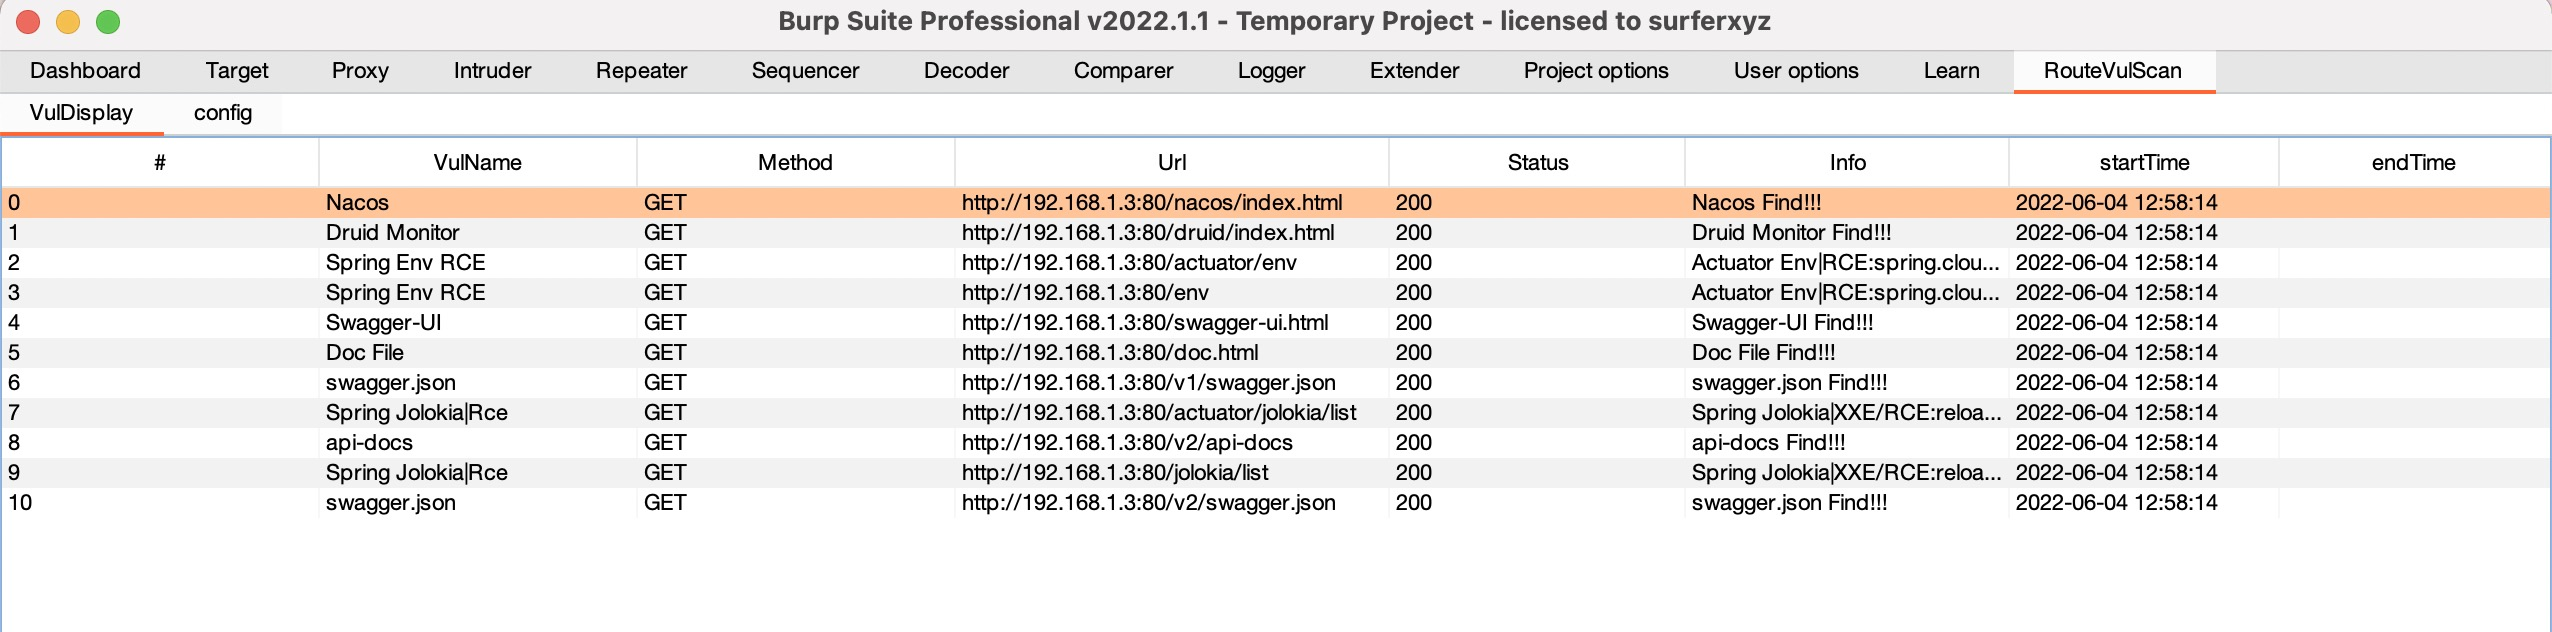
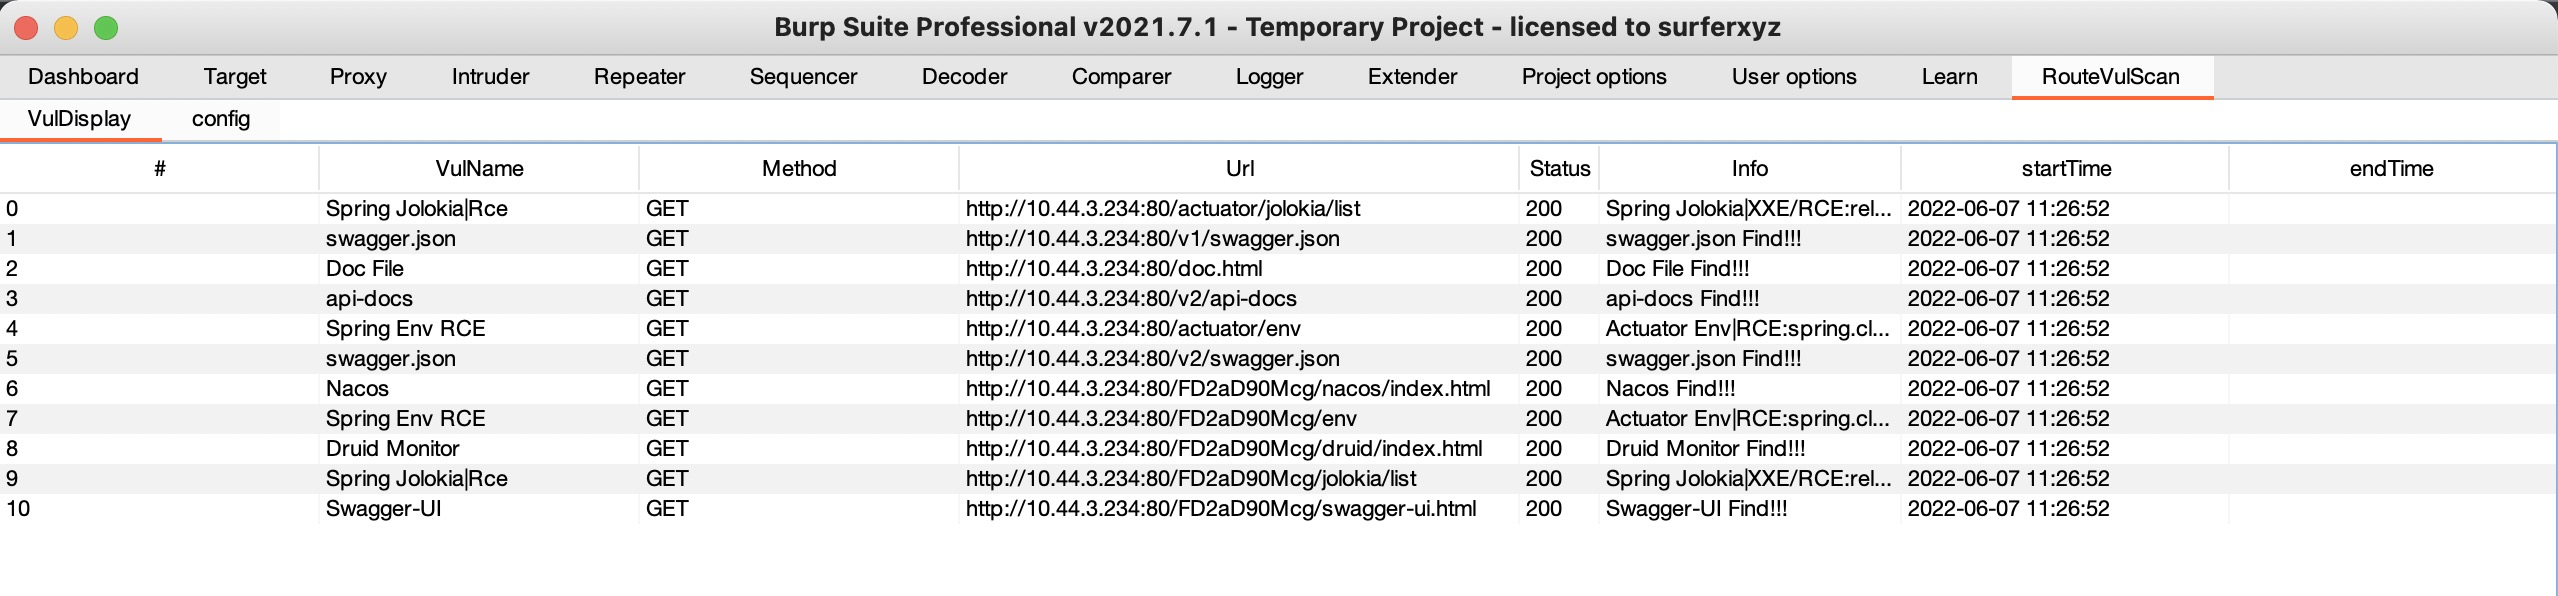
upload

diff --git a/src/main/java/func/vulscan.java b/src/main/java/func/vulscan.java
@@ -5,8 +5,11 @@ import burp.*;
 import utils.BurpAnalyzedRequest;
 import yaml.YamlUtil;
 
+import java.sql.Time;
 import java.util.List;
 import java.util.Map;
+import java.util.concurrent.ThreadPoolExecutor;
+import java.util.concurrent.TimeUnit;
 
 public class vulscan {
 
@@ -58,6 +61,12 @@ public class vulscan {
 
                 for (Map<String, Object> zidian : Listx) {
                     burp.ThreadPool.execute(new threads(zidian,this,newHttpRequestResponse));
+                }
+
+                while (true){
+                    if (((ThreadPoolExecutor)burp.ThreadPool).getActiveCount() == 0){
+                        break;
+                    }
                 }
 
 

diff --git a/README.md b/README.md
@@ -13,9 +13,15 @@ RouteVulScan是使用java语言基于burpsuite api开发的可以递归检测脆
 
 插件可以通过被动扫描的方式，递归对每一层路径进行路径探测，并通过设定好的正则表达式匹配关键字，展示在VulDisplay界面。可以自定义相关路径、匹配信息与漏洞名称等。
 
-<img src="./img/VulDisplay.jpg">
-
 <img src="./img/config.jpg">
+
+访问 http://10.44.3.234/FD2aD90Mcg/login.html 探测的路径如下，可以看到RouteVulScan会对根路径，及第二层路径 /FD2aD90Mcg 探测，同理，如果有三层四层路径，都会进行探测。
+
+探测过的url会打印在Output，如果是重复的url则不会请求，并打印在Errors。如果访问的url符合Config的规则，则会储存在VulDisplay面板进行展示。
+
+<img src="./img/out.jpg">
+
+<img src="./img/VulDisplay.jpg">
 
 
 
